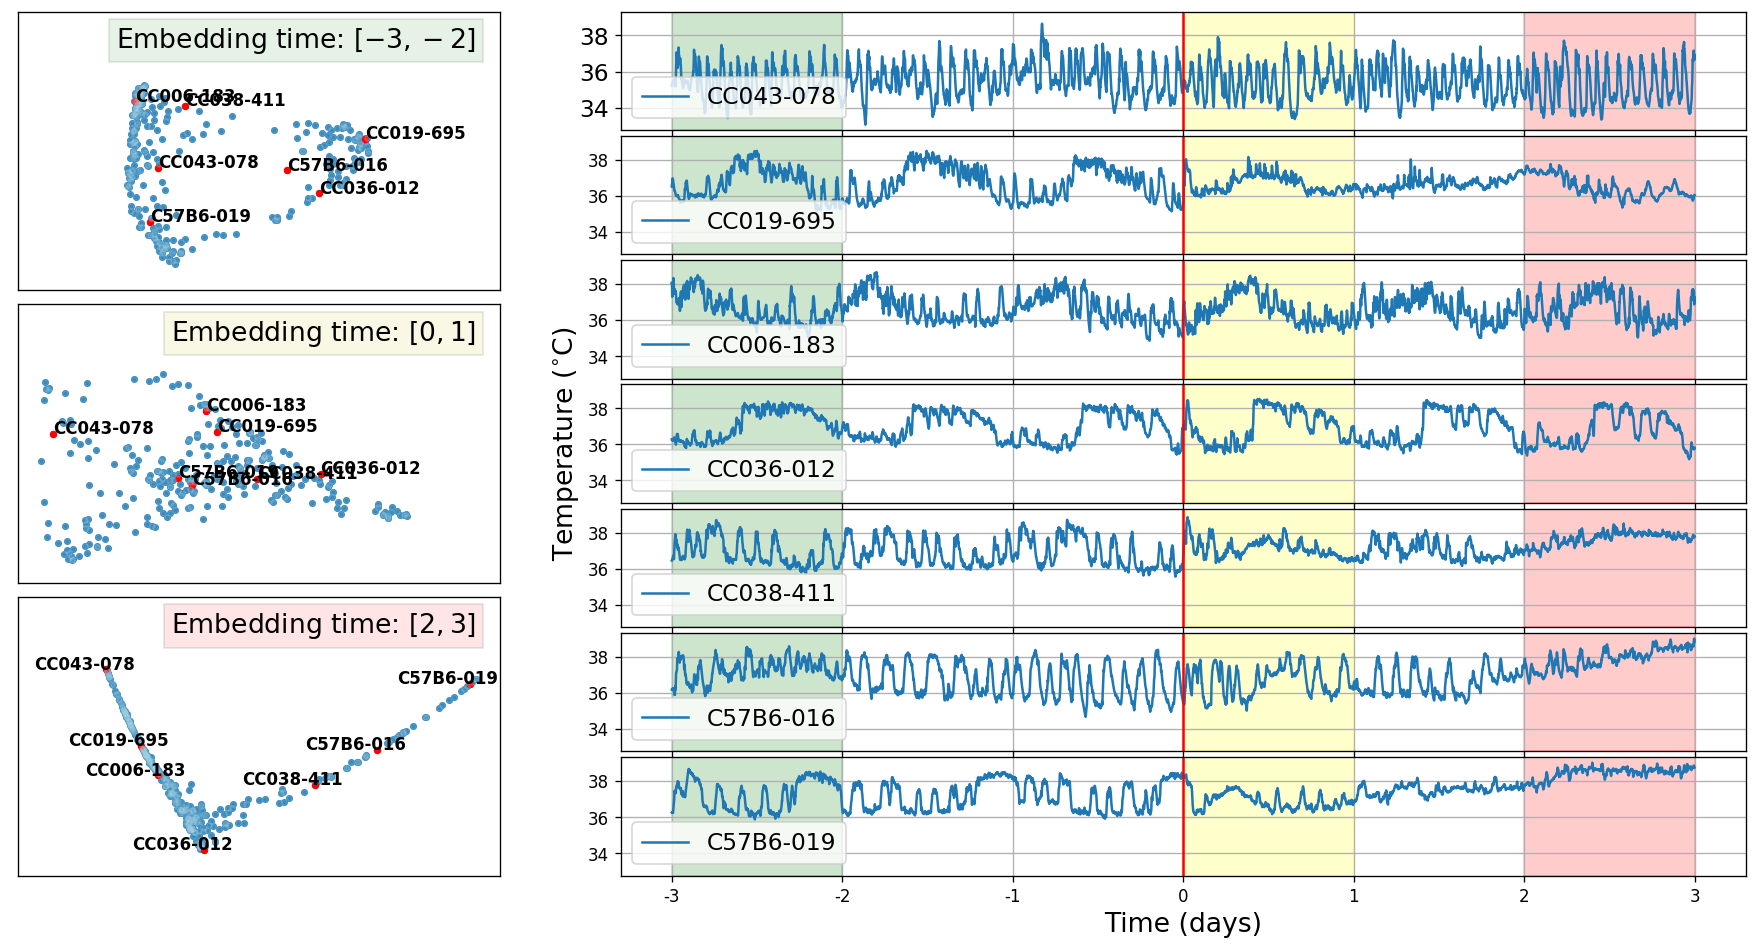
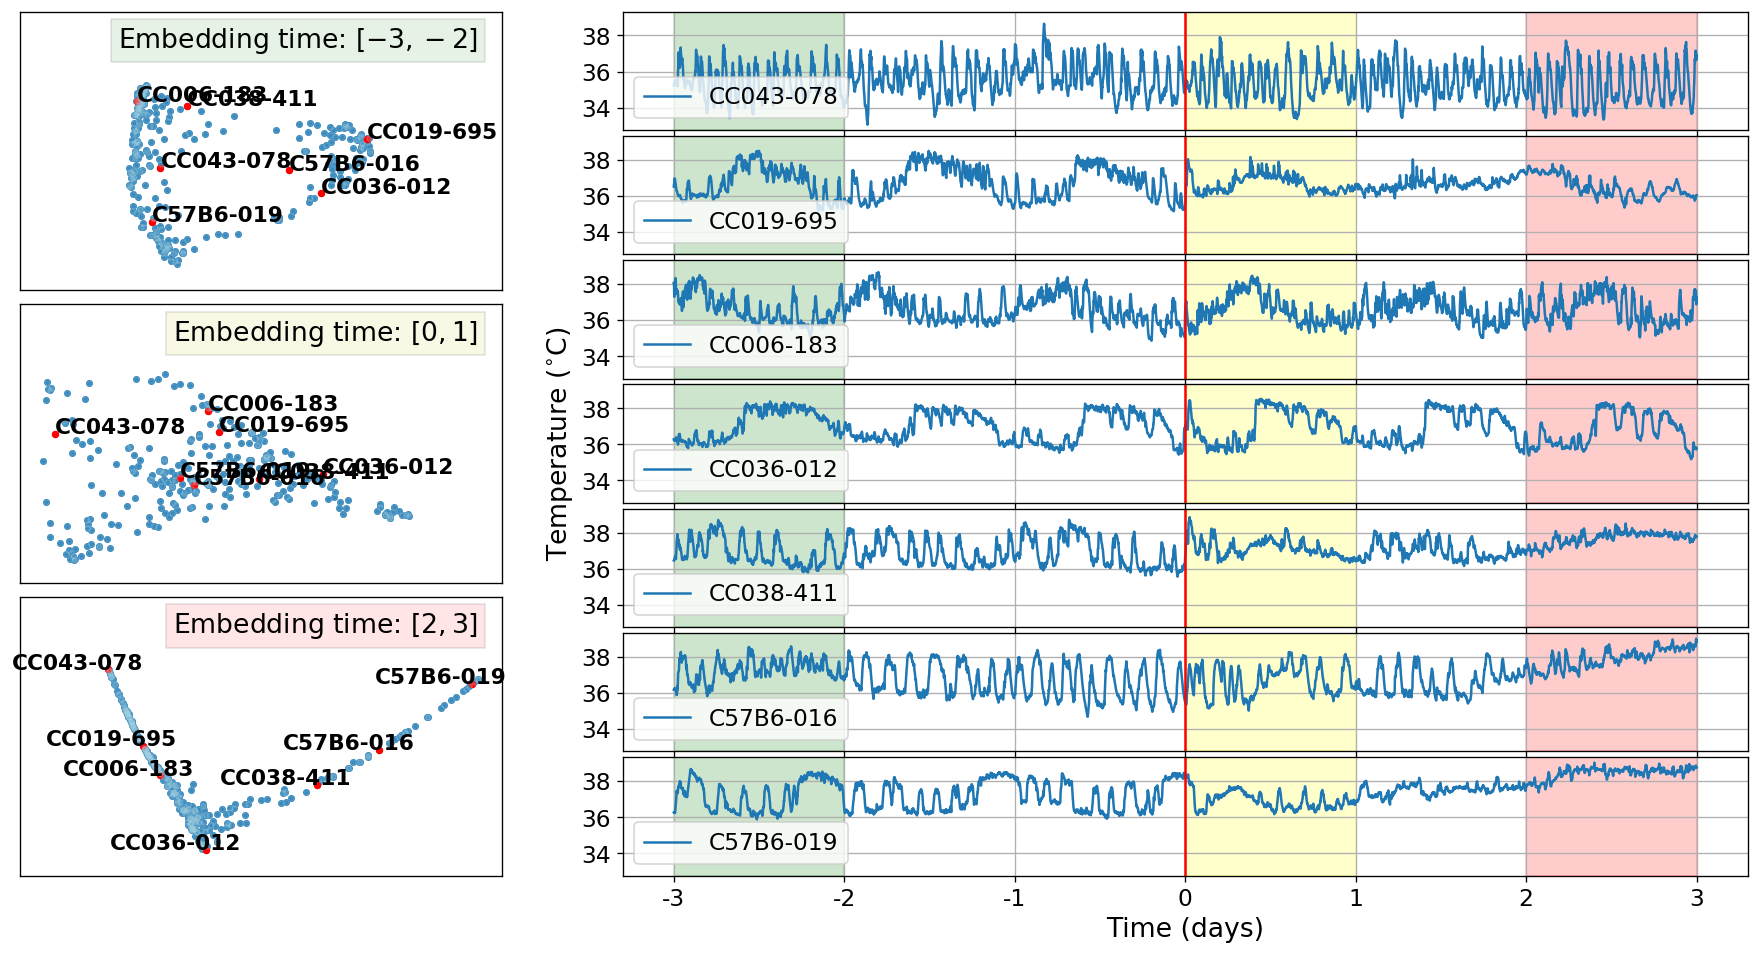
tweaks again

diff --git a/pat/sliding_mice_v2.py b/pat/sliding_mice_v2.py
@@ -109,10 +109,10 @@ for i, idx in enumerate(graph_idx):
             ax[0][i].scatter(evecs[idx,j,1], evecs[idx,j,2], s = 12, color = 'red')
             # one-off tweak blah
             if i!=2:
-                ax[0][i].annotate(text, (evecs[idx,j,1], evecs[idx,j,2]), weight = 'bold')
+                ax[0][i].annotate(text, (evecs[idx,j,1], evecs[idx,j,2]), weight = 'bold', fontsize=13)
             else:
                 width = np.diff( ax[0][0].get_xlim() )[0]
-                ax[0][i].annotate(text, (evecs[idx,j,1], evecs[idx,j,2]), weight = 'bold', xytext=(evecs[idx,j,1]-0.15*width,evecs[idx,j,2]), textcoords='data')
+                ax[0][i].annotate(text, (evecs[idx,j,1], evecs[idx,j,2]), weight = 'bold', xytext=(evecs[idx,j,1]-0.20*width,evecs[idx,j,2]), textcoords='data', fontsize=13)
         else:
             ax[0][i].scatter(evecs[idx,j,1], evecs[idx,j,2], s = 10, color = 'lightblue', alpha = 0.2)
 
@@ -138,9 +138,11 @@ for j, idx in enumerate(mouses):
 #plt.show()
 #
 
-ax[1][0].set_xticklabels(np.arange(-3,4), fontsize=14)
 ax[1][0].set_yticks(np.arange(34,39,2))
-ax[1][0].set_yticklabels(np.arange(34,39,2), fontsize=14)
+ax[1][-1].set_xticklabels(np.arange(-3,4), fontsize=14)
+for j in range(7):
+    ax[1][j].set_yticklabels(np.arange(34,39,2), fontsize=14)
+#
 
 # more labeling!!!!!!
 ax[1][-1].set_xlabel('Time (days)', fontsize=16)
